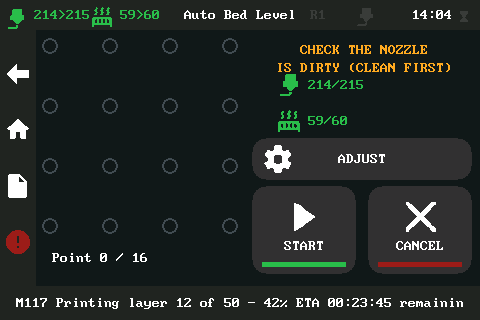
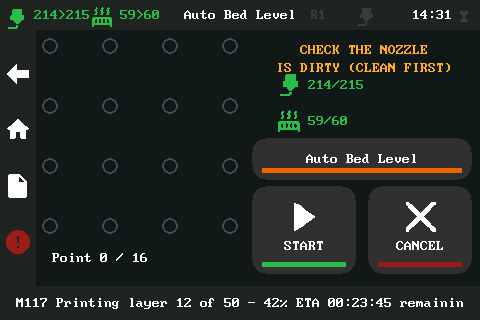
gui: the leveling tile is 'Mesh'; its adjust button says 'Auto Bed Level'
- Calibrate: 'Auto Level' -> 'Mesh'
- on the mesh screen the ADJUST button is labelled 'Auto Bed Level' with an
  orange underline (the cog icon is gone so the longer text fits)

Changed region(s): [[0.5312, 0.4375, 0.9688, 0.5625], [0.9062, 0.0312, 0.9375, 0.0625]]

diff --git a/mcu/st7796.py b/mcu/st7796.py
@@ -67,7 +67,7 @@ GUI_SCREENS = {
     ],
     # Tuning menus that used to live in main / Extrude / More.
     'calibrate': [
-        ("Auto Level", "bedmesh", ('scr', 'mesh')),
+        ("Mesh", "bedmesh", ('scr', 'mesh')),
         ("Z-Probe", "zprobe", ('scr', 'probe')),
         ("Limits", "limits", ('scr', 'limits')),
         ("Advanced", "cog", ('scr', 'advanced')),
@@ -1865,15 +1865,18 @@ class ST7796:
         armed = running and eventtime < self._mesh_arm
         # manual point adjustment (only when the printer is not leveling)
         ax, ay, aw, ah = self._mesh_adj_btn()
-        alab, afg, abg = (("ADJUST", COL_DIM, self.gui_btn_bg) if running
-                          else ("ADJUST", COL_WHITE, self.gui_btn_bg))
+        alab, afg, abg = (("Auto Bed Level", COL_DIM, self.gui_btn_bg)
+                          if running
+                          else ("Auto Bed Level", COL_WHITE,
+                                self.gui_btn_bg))
         ops.append(lambda ax=ax, ay=ay, aw=aw, ah=ah, abg=abg:
                    self._gui_round(ax, ay, aw, ah, abg))
-        ops.append(lambda ax=ax, ay=ay, aw=aw, afg=afg, abg=abg:
-                   self._gui_icon_at('cog', ax + 12, ay + 7, afg, abg, 28))
         ops.append(lambda ax=ax, ay=ay, aw=aw, ah=ah, alab=alab, afg=afg,
                    abg=abg: self._gui_text_center(
                        ax, aw, ay + (ah - 16) // 2, alab, afg, abg, 1))
+        # orange underline, like the other action buttons
+        ops.append(lambda ax=ax, ay=ay, aw=aw, ah=ah: self.cmd_rect.send(
+            [ax + 10, ay + ah - 12, aw - 20, 5, COL_C1]))
         for (x, y, w, h, kind) in self._mesh_btns():
             if kind == 'start':
                 icon = 'play48'
